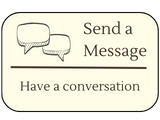
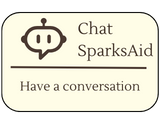
Added Initial Chatbot Screen

Changed region(s): [[0.0938, 0.15, 0.9688, 0.525], [0.4688, 0.175, 0.8438, 0.3]]

diff --git a/screens/ChatBotScreen.js b/screens/ChatBotScreen.js
@@ -1,0 +1,60 @@
+import { StyleSheet, Text, View } from 'react-native';
+import React, { useState, useCallback, useEffect } from 'react';
+import { GiftedChat } from 'react-native-gifted-chat';
+import ChatBotHeader from '../components/chat/ChatBotHeader';
+import { auth } from '../firebase';
+
+const ChatBotScreen = ({navigation}) => {
+  const [messages, setMessages] = useState([]);
+
+  useEffect(() => {
+    setMessages([
+      {
+        _id: 1,
+        text: 'How are you doing?',
+        createdAt: new Date(),
+        user: {
+          _id: 2,
+          name: 'SparksAid',
+          avatar: require('../assets/SamplePicsAndPosts/ProfilePictures/chatBotPicture.png'),
+        },
+      },
+      {
+        _id: 2,
+        text: ('Hello there!'),
+        createdAt: new Date(),
+        user: {
+          _id: 2,
+          name: 'SparksAid',
+          avatar: require('../assets/SamplePicsAndPosts/ProfilePictures/chatBotPicture.png'),
+        },
+      },
+    ]);
+  }, []);
+
+  const onSend = useCallback((messages = []) => {
+    setMessages(previousMessages =>
+      GiftedChat.append(previousMessages, messages),
+    );
+  }, []);
+
+  return (
+    <>
+    <ChatBotHeader navigation={navigation}/>
+    <GiftedChat
+      messages={messages}
+      onSend={messages => onSend(messages)}
+      user={{
+        _id: 1,
+      }}
+      messagesContainerStyle={{
+        backgroundColor: '#F5F5DC',
+      }}
+    />
+    </>
+  );
+};
+
+export default ChatBotScreen;
+
+const styles = StyleSheet.create({});

diff --git a/components/chat/ChatBotHeader.js b/components/chat/ChatBotHeader.js
@@ -1,0 +1,55 @@
+import { StyleSheet, Text, View, TouchableOpacity, Image } from 'react-native'
+import React from 'react'
+
+const ChatBotHeader = ({ navigation }) => {
+  return (
+    <View style={styles.container}>
+      <TouchableOpacity onPress={() => navigation.goBack()}>
+        <Image style={styles.backButton} source={require('../../assets/Buttons/backButton_White.png')} />
+      </TouchableOpacity>
+
+      <Text style={styles.companionName}>SparksAid</Text>
+
+      <Image
+      style={styles.companionPicture} 
+      source={require('../../assets/SamplePicsAndPosts/ProfilePictures/chatBotPicture.png')}
+      />
+    </View>
+  )
+}
+
+export default ChatBotHeader
+
+const styles = StyleSheet.create({
+  container: {
+    backgroundColor: '#5E17EB',
+    height: 130,
+    alignItems: 'center', // Center child elements vertically
+    justifyContent: 'space-between',
+    flexDirection: 'row',
+    borderBottomLeftRadius: 30, 
+    borderBottomRightRadius: 30, 
+  },
+  backButton: {
+    width: 40,
+    height: 40,
+    marginTop: 35,
+    marginLeft: 35,
+  },
+  companionPicture:{
+    borderRadius: 30,
+    height: 55,
+    width: 55,
+    marginTop: 28,
+    marginRight: 25,
+  },
+  companionName:{
+    fontSize: 32,
+    fontWeight: 'bold',
+    fontFamily: 'serif',
+    color: 'white',
+    marginTop: 30,
+    left: 3,
+  },
+
+})

diff --git a/components/home/Suggested_Activities.js b/components/home/Suggested_Activities.js
@@ -7,12 +7,12 @@ const Suggested_Activities = ({navigation}) => {
         <Text style={styles.containerText}>Suggested Activities</Text>
         <View style={styles.containerDirectory}>
             <ScrollView horizontal showsHorizontalScrollIndicator={false}>
-                <TouchableOpacity onPress={() => navigation.push('NewPostScreen')}>
-                    <Image style={styles.directory} source={require('../../assets/HomeScreenAssets/SuggestedActivities_1.png')}/>
+                <TouchableOpacity onPress={() => navigation.push('ChatBotScreen')}>
+                    <Image style={styles.directory} source={require('../../assets/HomeScreenAssets/SuggestedActivities_2.png')}/>
                 </TouchableOpacity>
 
-                <TouchableOpacity onPress={() => navigation.push('MessagesScreen')}>
-                    <Image style={styles.directory} source={require('../../assets/HomeScreenAssets/SuggestedActivities_2.png')}/> 
+                <TouchableOpacity onPress={() => navigation.push('NewPostScreen')}>
+                    <Image style={styles.directory} source={require('../../assets/HomeScreenAssets/SuggestedActivities_1.png')}/> 
                 </TouchableOpacity>
                 
                 <TouchableOpacity onPress={() => navigation.push('CompanionScreen')}>

diff --git a/navigation.js b/navigation.js
@@ -18,6 +18,7 @@ import ProfileScreen from './screens/ProfileScreen'
 import CompanionScreen from './screens/CompanionScreen'
 import AddCompanionScreen from './screens/AddCompanionScreen'
 import ChatScreen from './screens/ChatScreen'
+import ChatBotScreen from './screens/ChatBotScreen'
 import MessagesScreen from './screens/MessagesScreen'
 
 const Stack = createStackNavigator()
@@ -59,6 +60,7 @@ export const SignedInStack = () => (
             <Stack.Screen name='CompanionScreen' component={CompanionScreen}    />
             <Stack.Screen name='AddCompanionScreen' component={AddCompanionScreen} />
             <Stack.Screen name='ChatScreen' component={ChatScreen}  />
+            <Stack.Screen name='ChatBotScreen' component={ChatBotScreen}    />
             <Stack.Screen name='MessagesScreen' component={MessagesScreen}  />
 
         </Stack.Navigator>
